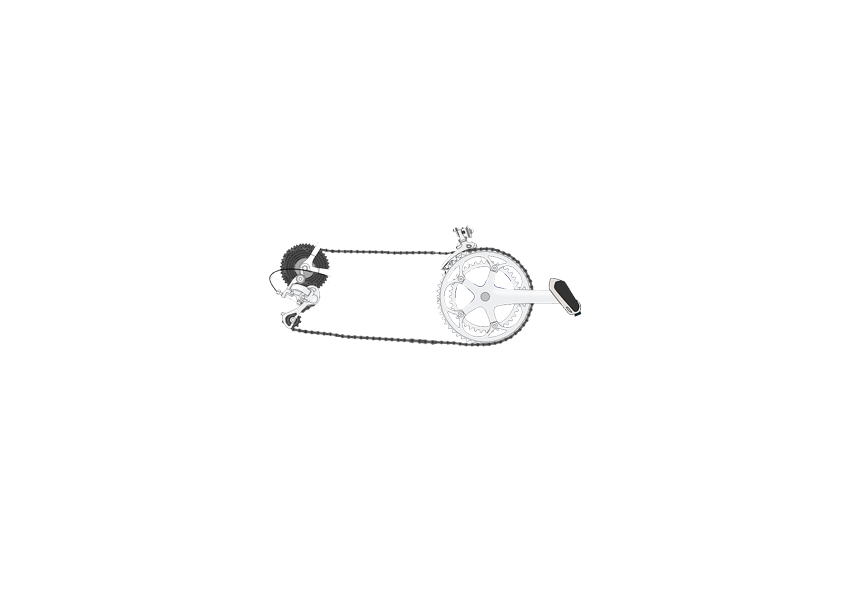
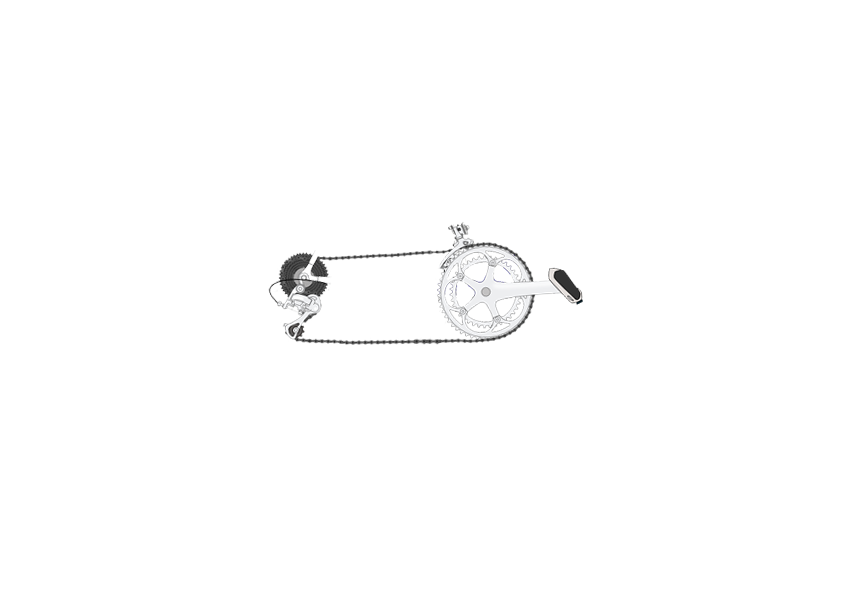
sport kerék de ezt ivás nélkül nem lehet bírni #21

Changed region(s): [[0.3059, 0.36, 0.7035, 0.6]]

diff --git a/configData.js b/configData.js
@@ -7,7 +7,7 @@ const configData = [
         'váz4;100;váz;0;images/kerek1.jpg;04',
 
         'kerék1;100;kerék;0;images/kerek_alap.png;11',
-        'kerék1;100;kerék;0;images/kerek1.jpg;12',
+        'kerék1;100;kerék;0;images/kerek_sport.png;12',
         'kerék1;100;kerék;0;images/kerek1.jpg;13',
         'kerék1;100;kerék;0;images/kerek1.jpg;14',
 

diff --git a/configurator.html b/configurator.html
@@ -33,7 +33,7 @@
         <select class="dropdown" id="dropdownMenu">
           <option value="11">Váz 1</option>
           <option value="11">Kerék 1</option>
-          <option value="12">Option 2</option>
+          <option value="12">sport 2</option>
           <option value="13">Option 3</option>
         </select>
         <p class="mb-0">hajtás</p>
